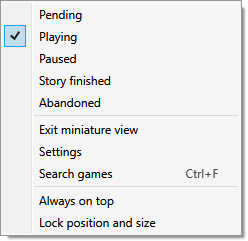
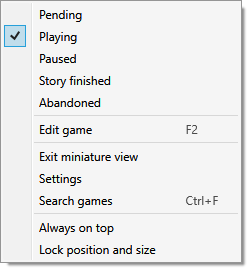
Edit games from miniature menus and F2

diff --git a/src/Checkpoint.App/NativeSmokeTests.cs b/src/Checkpoint.App/NativeSmokeTests.cs
@@ -392,6 +392,36 @@ public partial class MainWindow
                 miniatureRow.ContextMenu.Items.OfType<MenuItem>().Single(i => i.Tag is GameStatus s && s == priorState).IsChecked, "miniature menu exposes all states and checks the current one");
             RenderElement(miniatureRow.ContextMenu,Path.Combine(outputDirectory,"miniature-state-menu.png"));
             var miniatureMenu = miniatureRow.ContextMenu;
+            var editGameId = miniatureGame.Id;
+            string priorNotes = miniatureGame.Notes;
+            RunModal(() => MiniatureAction(miniatureMenu,"Editar juego").RaiseEvent(new RoutedEventArgs(MenuItem.ClickEvent)), window =>
+            {
+                Check(Input(window,"Nombre del juego").Text == miniatureGame.Title && Preferences.MiniatureView, "miniature edit menu opens the selected game's editor without changing view");
+                Input(window,"Notas · dónde lo dejaste").Text = "Nota desde Miniatura";
+                Click(window,"Guardar");
+            });
+            await Dispatcher.InvokeAsync(UpdateLayout, DispatcherPriority.ContextIdle);
+            Check(Games.Single(g => g.Id == editGameId).Notes == "Nota desde Miniatura" && Store.LoadGames().Single(g => g.Id == editGameId).Notes == "Nota desde Miniatura" &&
+                (Keyboard.FocusedElement as FrameworkElement)?.DataContext is CardView editedFocus && editedFocus.Model.Id == editGameId,
+                "miniature editor persists notes and returns focus to the same game");
+            RunModal(() => MiniatureKey(Key.F2), window =>
+            {
+                Input(window,"Notas · dónde lo dejaste").Text = "No guardar desde F2";
+                Click(window,"Cancelar");
+            });
+            Check(Preferences.MiniatureView && Games.Single(g => g.Id == editGameId).Notes == "Nota desde Miniatura", "miniature F2 opens the editor and cancellation preserves saved data");
+            RunModal(() => MiniatureKey(Key.F2), window =>
+            {
+                Controls<CheckBox>(window).Single(c => (string?)c.Content == "Mostrar en Mi lista").IsChecked = false;
+                Click(window,"Guardar");
+            });
+            Check(Preferences.MiniatureView && !visibleCards.Any(c => c.Model.Id == editGameId) && GameList.SelectedItem is null &&
+                !Store.LoadGames().Single(g => g.Id == editGameId).Tracked, "miniature editor untracking removes the row and clears stale selection");
+            miniatureGame = Games.Single(g => g.Id == editGameId); miniatureGame.Tracked = true; miniatureGame.Notes = priorNotes; Persist(); Refresh();
+            await Dispatcher.InvokeAsync(UpdateLayout, DispatcherPriority.ContextIdle);
+            miniatureRow = VisualChildren(GameList).OfType<Grid>().First(g => g.ContextMenu is not null && g.DataContext is CardView c && c.Model.Id == editGameId);
+            miniatureMenu = miniatureRow.ContextMenu; miniatureMenu.PlacementTarget = miniatureRow; miniatureMenu.IsOpen = true;
+            await Dispatcher.InvokeAsync(UpdateLayout, DispatcherPriority.ContextIdle);
             quickPin = MiniatureAction(miniatureMenu,"Mantener siempre visible");
             Check(quickPin.IsChecked == Preferences.AlwaysOnTop && MiniatureAction(miniatureMenu,"Bloquear posición y tamaño").IsChecked == Preferences.PositionLocked,
                 "miniature game menu reflects quick window settings");
@@ -430,6 +460,8 @@ public partial class MainWindow
                 MiniatureAction(Shell.ContextMenu,"Bloquear posición y tamaño").Header.Equals("Lock position and size"), "miniature quick window actions switch to English in both menus");
             Check((string?)MiniatureAction(miniatureRow.ContextMenu,"Buscar juego").Header == "Search games" &&
                 MiniatureAction(Shell.ContextMenu,"Buscar juego").InputGestureText == "Ctrl+F", "miniature search action is localized and exposes its shortcut");
+            Check((string?)MiniatureAction(miniatureRow.ContextMenu,"Editar juego").Header == "Edit game" &&
+                MiniatureAction(miniatureRow.ContextMenu,"Editar juego").InputGestureText == "F2", "miniature edit action switches to English and exposes F2");
             RenderElement(miniatureRow.ContextMenu,Path.Combine(outputDirectory,"miniature-state-menu-en.png"));
             miniatureRow.ContextMenu.IsOpen = false;
             Preferences.Language = "es"; ApplyLanguage();

diff --git a/src/Checkpoint.App/MainWindow.xaml.cs b/src/Checkpoint.App/MainWindow.xaml.cs
@@ -282,6 +282,15 @@ public partial class MainWindow : Window
             if (GameList.ItemContainerGenerator.ContainerFromItem(card) is ListBoxItem container && FindVisual<Grid>(container) is { ContextMenu: { } menu } row)
             { menu.PlacementTarget = row; menu.IsOpen = true; e.Handled = true; }
         }
+        else if (e.Key == Key.F2 && Keyboard.Modifiers == ModifierKeys.None && current is not null)
+        { e.Handled = true; EditMiniatureGame(current.Model.Id); }
+    }
+    private void EditMiniatureGame(Guid gameId)
+    {
+        if (Games.FirstOrDefault(g => g.Id == gameId) is not { } game) return;
+        Dialogs.Edit(this, game);
+        if (Preferences.MiniatureView && visibleCards.FirstOrDefault(c => c.Model.Id == gameId) is { } current)
+            FocusMiniatureCard(current, expectedFocus: Keyboard.FocusedElement, guardFocus: true);
     }
     private void MiniatureMenuClosed(object sender, RoutedEventArgs e)
     {
@@ -318,6 +327,9 @@ public partial class MainWindow : Window
             menu.Items.Add(item);
         }
         menu.Items.Add(new Separator());
+        var edit = new System.Windows.Controls.MenuItem { Header = I18n.T("Editar juego"), InputGestureText = "F2" };
+        edit.Click += (_, _) => { menu.IsOpen = false; EditMiniatureGame(card.Model.Id); };
+        menu.Items.Add(edit); menu.Items.Add(new Separator());
         AddMiniatureWindowActions(menu);
     }
     private void AddMiniatureWindowActions(System.Windows.Controls.ContextMenu menu)

diff --git a/README.es.md b/README.es.md
@@ -18,12 +18,12 @@ Capturas de la aplicación Windows 0.6.1 renderizadas durante las pruebas nativa
 
 ## Descargar y utilizar
 
-La versión actual es **0.6.9**. En la carpeta `dist` se generan:
+La versión actual es **0.6.10**. En la carpeta `dist` se generan:
 
-Descarga el portable o instalador desde [GitHub Releases](https://github.com/Nicolasmf05/Checkpoint/releases/tag/v0.6.9), o compila con las instrucciones de este repositorio. El workflow **Build and verify** también genera el ZIP y MSI como artefactos cuando finaliza correctamente.
+Descarga el portable o instalador desde [GitHub Releases](https://github.com/Nicolasmf05/Checkpoint/releases/tag/v0.6.10), o compila con las instrucciones de este repositorio. El workflow **Build and verify** también genera el ZIP y MSI como artefactos cuando finaliza correctamente.
 
-- `Checkpoint-0.6.9-win-x64.msi`: instalador por usuario con acceso en el menú Inicio y desinstalación desde Windows.
-- `Checkpoint-0.6.9-win-x64.zip`: edición portable. Extrae el ZIP y abre `Checkpoint/Checkpoint.exe`. Todos los archivos quedan dentro de la carpeta `Checkpoint`.
+- `Checkpoint-0.6.10-win-x64.msi`: instalador por usuario con acceso en el menú Inicio y desinstalación desde Windows.
+- `Checkpoint-0.6.10-win-x64.zip`: edición portable. Extrae el ZIP y abre `Checkpoint/Checkpoint.exe`. Todos los archivos quedan dentro de la carpeta `Checkpoint`.
 - Archivos `.sha256`: comprobación de integridad.
 
 Los paquetes incluyen el runtime de .NET; el usuario no necesita instalar herramientas de desarrollo. La versión x64 está dirigida a Windows 11; Windows 10 no ha sido validado. La compilación ARM64 está preparada en el script, pero no se ha probado en hardware ARM.
@@ -41,6 +41,7 @@ Windows x64 (Windows 11 probado), carpeta accesible para tu usuario y espacio pa
 - **Cambio rápido de estado en Miniatura:** clic derecho sobre un juego para elegir su estado. El actual aparece marcado; se guarda sin salir de la lista de nombre/estado.
 - **Acciones de ventana en Miniatura:** clic derecho en el fondo o un juego para activar Mantener siempre visible o Bloquear posición y tamaño. Las marcas reflejan los ajustes guardados.
 - **Búsqueda desde cualquier vista:** Ctrl+F abre la búsqueda de la colección y selecciona su consulta actual. Desde Miniatura vuelve a la lista normal y conserva su tamaño pequeño; desde Amigos vuelve a la colección. Los menús de Miniatura también ofrecen Buscar juego.
+- **Editar desde Miniatura:** clic derecho en un juego → Editar juego, o F2 sobre el seleccionado. Abre su ficha sin salir de Miniatura; al cerrar recupera el foco si continúa en Mi lista.
 - **Teclado en Miniatura:** ↑/↓ recorren juegos, Inicio/Fin van al primero/último y Enter/Espacio abren el menú de estados. Un contorno marca la fila activa; recupera el foco al cerrar el menú o cambiar estado.
 - **Vista Miniatura:** solo nombres y estados en una ventana pequeña y translúcida. Ajustes → Vista de la colección → Miniatura, o cambia con F6. Clic derecho → Salir de miniatura. Tamaño independiente del widget normal; se mueve desde el borde superior. Muestra Mi lista, sin filtros ni descargas de carátulas.
 - **Modo ligero opcional:** Ajustes → Modo ligero (sin carátulas). Oculta imágenes de colección/amigos, evita nuevas descargas y vacía la caché decodificada. Conserva el progreso y los archivos guardados.
@@ -138,7 +139,7 @@ dotnet run --project src/Checkpoint.App -c Release --no-build -- --data-dir "$PW
 
 Usa siempre una carpeta nueva para `--smoke-test`: esta comprobación modifica su biblioteca de prueba y rechaza una carpeta con biblioteca o sesión existentes. El modo `--demo` añade tres juegos de ejemplo únicamente a una biblioteca vacía. No inventa logros. Las pruebas de Steam y las pruebas del diálogo de logros usan respuestas simuladas y no necesitan contraseñas ni claves reales.
 
-`Build.ps1` comprueba también el ZIP recién generado: lo extrae a `.qa`, ejecuta su app autocontenida y valida búsqueda, vistas, reordenación, persistencia, diálogos, secretos, recuperación, copias con imágenes, cuentas y amistades simuladas, y virtualización con 1.003 juegos. Puedes repetir solo esa comprobación con `./scripts/Verify-Package.ps1 -ZipPath ./dist/Checkpoint-0.6.9-win-x64.zip`. Las imágenes y el informe quedan en `.qa/package-…/render`. La ejecución ARM64 necesita un equipo Windows ARM64; en otros equipos se comprueba la estructura del paquete.
+`Build.ps1` comprueba también el ZIP recién generado: lo extrae a `.qa`, ejecuta su app autocontenida y valida búsqueda, vistas, reordenación, persistencia, diálogos, secretos, recuperación, copias con imágenes, cuentas y amistades simuladas, y virtualización con 1.003 juegos. Puedes repetir solo esa comprobación con `./scripts/Verify-Package.ps1 -ZipPath ./dist/Checkpoint-0.6.10-win-x64.zip`. Las imágenes y el informe quedan en `.qa/package-…/render`. La ejecución ARM64 necesita un equipo Windows ARM64; en otros equipos se comprueba la estructura del paquete.
 
 La integración con una cuenta real y la instalación/desinstalación del MSI deben validarse en un entorno de lanzamiento antes de publicar. Consulta [docs/VALIDATION.md](docs/VALIDATION.md).
 
@@ -148,11 +149,11 @@ El proyecto incluye `.gitignore`, licencia MIT, documentación, pruebas y un wor
 
 Publica únicamente los archivos de código y documentación. `.tools`, `.qa`, `dist`, `.env`, bases de datos y tokens son locales y se excluyen.
 
-También se entrega `dist/Checkpoint-source-0.6.9.zip`, con el código limpio para trasladarlo a GitHub. `scripts/Export-Source.ps1` lo regenera usando ripgrep y las exclusiones de `.gitignore`. La versión de los ejecutables, nombres de archivo e instalador se toma de `Directory.Build.props`.
+También se entrega `dist/Checkpoint-source-0.6.10.zip`, con el código limpio para trasladarlo a GitHub. `scripts/Export-Source.ps1` lo regenera usando ripgrep y las exclusiones de `.gitignore`. La versión de los ejecutables, nombres de archivo e instalador se toma de `Directory.Build.props`.
 
 ## Próximas versiones
 
-El backend de cuentas y amistades está desplegado en Supabase y la app 0.6.9 incorpora la pestaña Amigos. Han pasado 33 comprobaciones SQL y 7 HTTP del backend; queda validar el registro y el intercambio de imágenes con dos cuentas reales. El estado, configuración pública y pasos pendientes están en [docs/SUPABASE.md](docs/SUPABASE.md).
+El backend de cuentas y amistades está desplegado en Supabase y la app 0.6.10 incorpora la pestaña Amigos. Han pasado 33 comprobaciones SQL y 7 HTTP del backend; queda validar el registro y el intercambio de imágenes con dos cuentas reales. El estado, configuración pública y pasos pendientes están en [docs/SUPABASE.md](docs/SUPABASE.md).
 
 Notificaciones, estadísticas mensuales y sincronización de la biblioteca entre equipos quedan para futuras versiones. Consulta [docs/ROADMAP.md](docs/ROADMAP.md) y [CHANGELOG.md](CHANGELOG.md).
 

diff --git a/README.md b/README.md
@@ -18,13 +18,13 @@ Captures use real WPF controls rendered during native tests. Games, users and fr
 
 ## Download and run
 
-Current version: **0.6.9**. Build outputs in `dist`:
+Current version: **0.6.10**. Build outputs in `dist`:
 
-- `Checkpoint-0.6.9-win-x64.zip`: portable edition. Extract the ZIP and open `Checkpoint/Checkpoint.exe`. All files stay inside the `Checkpoint` folder.
-- `Checkpoint-0.6.9-win-x64.msi`: per-user installer with Start menu shortcut and Windows uninstall support.
+- `Checkpoint-0.6.10-win-x64.zip`: portable edition. Extract the ZIP and open `Checkpoint/Checkpoint.exe`. All files stay inside the `Checkpoint` folder.
+- `Checkpoint-0.6.10-win-x64.msi`: per-user installer with Start menu shortcut and Windows uninstall support.
 - `.sha256` files: integrity checksums.
 
-Download the portable ZIP or MSI from [GitHub Releases](https://github.com/Nicolasmf05/Checkpoint/releases/tag/v0.6.9), or build from source below. The **Build and verify** GitHub Actions workflow also produces artifacts after a successful run. Packages include the .NET runtime; end users need no development tools. Windows 11 x64 is the target. Windows 10 and ARM64 hardware have not been validated; ARM64 packaging is supported. The MSI and EXE are unsigned; Windows may warn or block them. See [Windows security messages](docs/en/WINDOWS-SECURITY.md). No private certificates are included.
+Download the portable ZIP or MSI from [GitHub Releases](https://github.com/Nicolasmf05/Checkpoint/releases/tag/v0.6.10), or build from source below. The **Build and verify** GitHub Actions workflow also produces artifacts after a successful run. Packages include the .NET runtime; end users need no development tools. Windows 11 x64 is the target. Windows 10 and ARM64 hardware have not been validated; ARM64 packaging is supported. The MSI and EXE are unsigned; Windows may warn or block them. See [Windows security messages](docs/en/WINDOWS-SECURITY.md). No private certificates are included.
 
 
 Microsoft Store packaging is being prepared separately: [MSIX build and submission guide](docs/en/MICROSOFT-STORE.md). The unsigned MSIX preview is for developer validation and does not remove warnings from the current GitHub downloads.
@@ -38,6 +38,7 @@ Windows x64 (Windows 11 tested), a user-writable folder and disk space. **No .NE
 - **Quick state changes in Miniature:** right-click a game to select its state. The current state is checked; changes persist without leaving the names/states-only list.
 - **Miniature window actions:** right-click the background or a game to toggle Always on top or Lock position and size. Checked values reflect saved settings.
 - **Search from any view:** Ctrl+F opens collection search and selects its current query. From Miniature it returns to the normal list, preserving the small size for next time; from Friends it returns to the collection. Miniature menus also offer Search games.
+- **Edit from Miniature:** right-click a game → Edit game, or F2 on the selected game. Opens its normal editor without leaving Miniature; closing returns focus if it remains in My list.
 - **Miniature keyboard controls:** Up/Down select a game, Home/End jump to the first/last, Enter/Space open its state menu. A focus outline marks the active row; focus returns after closing the menu or changing state.
 - **Miniature view:** only game names and states in a small translucent window. Settings → Collection view → Miniature, or cycle with F6. Right-click → Exit miniature view. Resize it independently from the normal widget; drag the top edge. Shows My list with no filters or cover downloads.
 - **Optional lightweight mode:** Settings → Lightweight mode (no covers). Hides collection/friend covers, skips new image downloads and clears the decoded cover cache. Progress and saved images are preserved.
@@ -117,13 +118,13 @@ dotnet run --project src/Checkpoint.App -c Release --no-build -- --data-dir "$PW
 
 Native tests reject existing libraries/sessions/publications and exercise real controls with simulated Steam/social responses. Demo adds examples only to an empty library. Build extracts and tests its self-contained ZIP, including language switching and virtualized rendering of 1,003 games. Reports and captures: `.qa/package-…/render`.
 
-Repeat using `./scripts/Verify-Package.ps1 -ZipPath ./dist/Checkpoint-0.6.9-win-x64.zip`. ARM64 execution needs Windows ARM64 hardware. [Validation](docs/en/VALIDATION.md) lists remaining real-account/Storage and clean-machine MSI checks.
+Repeat using `./scripts/Verify-Package.ps1 -ZipPath ./dist/Checkpoint-0.6.10-win-x64.zip`. ARM64 execution needs Windows ARM64 hardware. [Validation](docs/en/VALIDATION.md) lists remaining real-account/Storage and clean-machine MSI checks.
 
 ## GitHub
 
 MIT license, source, docs and build workflow are included. Set repository variable `CHECKPOINT_SERVICE_URL` for a hosted Steam service. The workflow uploads artifacts but does not publish a release automatically. Never upload `.tools`, `.qa`, `dist`, `.env`, databases, tokens or private keys.
 
-`scripts/Export-Source.ps1` creates `dist/Checkpoint-source-0.6.9.zip` using ripgrep and `.gitignore`. Versions come from `Directory.Build.props`. Built-in translations live in `src/Checkpoint.Core/Localization/en.json`, XAML keys in `src/Checkpoint.App/LocalizationKeys.json`. User content and API wire values are not translated.
+`scripts/Export-Source.ps1` creates `dist/Checkpoint-source-0.6.10.zip` using ripgrep and `.gitignore`. Versions come from `Directory.Build.props`. Built-in translations live in `src/Checkpoint.Core/Localization/en.json`, XAML keys in `src/Checkpoint.App/LocalizationKeys.json`. User content and API wire values are not translated.
 
 See [roadmap](docs/en/ROADMAP.md) and [changelog](CHANGELOG.md). Notifications, monthly statistics and private-library cloud sync are future work.
 

diff --git a/docs/DOWNLOAD-NOTES.md b/docs/DOWNLOAD-NOTES.md
@@ -33,6 +33,8 @@ Las actualizaciones conservan el juego seleccionado y recuperan su foco de tecla
 
 **Ctrl+F o clic derecho → Buscar juego** abre la colección normal y enfoca su buscador. Guarda esa vista y conserva el tamaño de Miniatura para cuando vuelvas. Desde Amigos, Ctrl+F también abre la búsqueda visible de la colección. Si existe una consulta, se selecciona para sustituirla al escribir; su texto se conserva hasta cambiarlo. Miniatura sigue mostrando únicamente nombres y estados.
 
+**Clic derecho en un juego → Editar juego, o F2 sobre el seleccionado** abre su ficha habitual manteniendo Miniatura activa. Puedes editar notas, tareas y los demás campos del editor. Guardar aplica los cambios; Cancelar conserva los datos guardados. Al cerrar recupera el foco si el juego sigue visible. Desmarcar Mostrar en Mi lista retira su fila de Miniatura sin borrar el juego de la biblioteca. Las filas siguen mostrando solo nombre y estado.
+
 ## Modo ligero opcional
 
 Actívalo en **Ajustes → Modo ligero (sin carátulas)**. Oculta las carátulas de colección y amigos, evita nuevas descargas de imágenes y vacía la caché de imágenes decodificadas. Los juegos, objetivos, progreso, archivos de carátulas y publicaciones se conservan; puedes desactivarlo cuando quieras. La elección queda guardada. Una descarga ya iniciada puede terminar. No desactiva Steam, la sincronización ni el envío de publicaciones pendientes.

diff --git a/docs/en/DOWNLOAD-NOTES.md b/docs/en/DOWNLOAD-NOTES.md
@@ -33,6 +33,8 @@ Updates preserve the selected game and restore its keyboard focus only if the li
 
 **Ctrl+F or right-click → Search games** opens the normal collection view and focuses search. It saves that view while preserving Miniature dimensions for your next visit. From Friends, Ctrl+F also returns to the visible collection search. Any existing query is selected so you can replace it by typing; its text is preserved until you change it. Miniature itself keeps the names/states-only list.
 
+**Right-click a game → Edit game, or F2 on the selected game** opens its normal editor while keeping Miniature active. Edit notes, tasks and other normal editor fields. Save applies changes; Cancel preserves the saved data. Closing restores game focus if it remains visible. Unchecking Show in My list removes its Miniature row without deleting the library entry. Rows still show only name and state.
+
 ## Optional lightweight mode
 
 Enable **Settings → Lightweight mode (no covers)**. Collection and friend covers are hidden, new image downloads are skipped and the decoded image cache is cleared. Games, goals, progress, saved cover files and publications are preserved; you can turn it off at any time. The choice is saved. An already-started download may finish. Steam, synchronization and pending publication delivery remain enabled.

diff --git a/docs/VALIDATION.md b/docs/VALIDATION.md
@@ -2,6 +2,10 @@
 
 # Validación
 
+## 0.6.10 — edición desde Miniatura
+
+Han pasado 280 comprobaciones: 108 de biblioteca, 15 Node, 14 Edge y 143 WPF. Cinco nuevas prueban apertura de la ficha del juego desde el menú, guardado de notas y foco en el mismo juego, F2/cancelación, retirada de Mi lista con selección limpia y traducción inglesa/atajo. Se usan diálogos y controles reales con datos aislados; no sustituye teclado físico. Capturas nativas de menús en ambos idiomas. Siguen pendientes instalación y cuentas reales.
+
 ## 0.6.9 — búsqueda visible
 
 Han pasado 275 comprobaciones: 108 de biblioteca, 15 Node, 14 Edge y 138 WPF. Cinco nuevas pruebas comprueban selección de la consulta actual, búsqueda visible desde Amigos, salida/guardado de vista normal desde el menú de Miniatura sin perder su tamaño, foco tras cerrar el menú del juego y etiqueta/atajo en inglés. Se prueba el mismo método usado por Ctrl+F; no se simula la pulsación física con modificadores. Capturas nativas actualizadas en ambos idiomas. Siguen pendientes teclado físico, instalación y cuentas reales.

diff --git a/docs/en/VALIDATION.md b/docs/en/VALIDATION.md
@@ -1,5 +1,9 @@
 # Validation
 
+## 0.6.10 — editing from Miniature
+
+280 checks passed: 108 core, 15 Node, 14 Edge and 143 native WPF. Five new checks exercise the game-menu editor, persisted notes and same-game focus, F2/cancellation, untracking with cleared selection and English label/shortcut. Real dialogs and controls use isolated data; this does not replace physical keyboard testing. Native menus captured in both languages. Installed packages and real accounts remain pending.
+
 ## 0.6.9 — visible search
 
 275 checks passed: 108 core, 15 Node, 14 Edge and 138 native WPF. Five new checks cover current-query selection, visible collection search from Friends, saved normal view from the Miniature menu without losing its dimensions, search focus after closing the game menu and the English label/shortcut hint. Tests exercise the same method used by Ctrl+F; physical modifier-key input is not simulated. Native menu screenshots updated in both languages. Physical keyboard, installed packages and real accounts remain pending.

diff --git a/CHANGELOG.es.md b/CHANGELOG.es.md
@@ -2,6 +2,11 @@
 
 # Historial de cambios
 
+## 0.6.10 — 2026-10-03
+
+- Menú de juego de Miniatura incluye Editar juego; F2 abre la ficha seleccionada. Notas/tareas y acciones habituales del editor sin cambiar de vista ni añadir controles a las filas.
+- Al cerrar la ficha se recupera el foco por identidad si el juego sigue visible; retirarlo de Mi lista limpia la selección.
+
 ## 0.6.9 — 2026-10-03
 
 - Ctrl+F abre la búsqueda visible de la colección desde Miniatura o Amigos y selecciona la consulta actual, en lugar de intentar enfocar un campo oculto.

diff --git a/CHANGELOG.md b/CHANGELOG.md
@@ -2,6 +2,11 @@
 
 **English** · [Español](CHANGELOG.es.md)
 
+## 0.6.10 — 2026-10-03
+
+- Miniature game menus add Edit game; F2 opens the selected game editor. Notes/tasks and normal editor actions are available without changing view or adding row controls.
+- Closing the editor restores focus by game identity when the game remains visible; untracking it clears selection.
+
 ## 0.6.9 — 2026-10-03
 
 - Ctrl+F opens visible collection search from Miniature or Friends; it selects the current query instead of focusing a hidden field.
